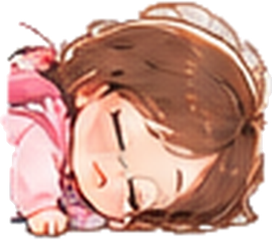
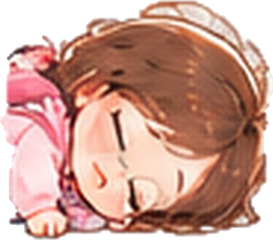
인트로 START → 대기 화면 없이 바로 게임, v2 줄타기 줄을 손까지 한 직선으로, 은유 v2 가는 머리카락·흰 테두리 정리

diff --git a/skyhook/game.js b/skyhook/game.js
@@ -714,7 +714,7 @@ function startStage(si) {
   if (!THEMES[skinTheme() || STAGES[si].theme].img) getBG(skinTheme() || STAGES[si].theme);
   setState('play');
   renderHearts();
-  $('hudProgFace').style.backgroundImage = `url(${(window.Costume && Costume.src) || `assets/${Save.data.char}_base.jpg?v=20261023v`})`;
+  $('hudProgFace').style.backgroundImage = `url(${(window.Costume && Costume.src) || `assets/${Save.data.char}_base.jpg?v=20261023x`})`;
   Audio.startBgm();
 }
 
@@ -1260,8 +1260,17 @@ function render() {
     ctx.strokeStyle = 'rgba(61,139,255,.55)'; ctx.lineWidth = 3; ctx.setLineDash([8, 8]);
     ctx.beginPath(); ctx.moveTo(p.x, p.y - 25); ctx.lineTo(target.x, target.y); ctx.stroke(); ctx.setLineDash([]);
   }
-  // rope
-  if (p.hook) {
+  // rope — 새 캐릭터(v2): 줄 끝 = 손, 몸은 줄과 한 직선으로 (줄이 절대 꺾이지 않게)
+  const v2Hang = p.hook && window.CharV2 && CharV2.is(Save.data.char) && CharV2.ready(Save.data.char) && !(p.inv > 0 && Math.floor(p.inv * 12) % 2 === 0) && p.hurtT <= 0;
+  let v2Hand = null;
+  if (v2Hang) {
+    const dx = p.x - p.hook.x, dy = p.y - p.hook.y, d = Math.hypot(dx, dy) || 1;
+    const L = Math.max(30, d - 46); v2Hand = { x: p.hook.x + dx / d * L, y: p.hook.y + dy / d * L, rot: -Math.atan2(dx, dy) };
+    ctx.strokeStyle = '#5A3B22'; ctx.lineWidth = 5; ctx.lineCap = 'round';
+    ctx.beginPath(); ctx.moveTo(p.hook.x, p.hook.y); ctx.lineTo(v2Hand.x, v2Hand.y); ctx.stroke();
+    ctx.strokeStyle = '#C9945A'; ctx.lineWidth = 2.5;
+    ctx.beginPath(); ctx.moveTo(p.hook.x, p.hook.y); ctx.lineTo(v2Hand.x, v2Hand.y); ctx.stroke();
+  } else if (p.hook) {
     // hands: local (3,-96) around the body pivot (feet-50), rotated like the sprite
     const r = -Math.atan2(p.x - p.hook.x, p.y - p.hook.y) * 0.8;
     const hx = p.x + 3 * Math.cos(r) + 46 * Math.sin(r), hy = p.y + CFG.bodyOff - 50 + 3 * Math.sin(r) - 46 * Math.cos(r);
@@ -1284,6 +1293,11 @@ function render() {
     else if (p.hook) pose = 'swing';
     else if (!p.onGround) pose = p.vy < 0 ? 'jump' : 'fall';
     if (G.endT > 0 && p.vx < 30) pose = 'idle';
+    if (v2Hand && pose === 'swing') {
+      ctx.save(); ctx.translate(v2Hand.x, v2Hand.y);
+      CharV2.draw(ctx, Save.data.char, `swing_${Math.floor(p.anim * 4) % 2}`, { h: 118, anchor: 'hand', rot: v2Hand.rot });
+      ctx.restore();
+    } else {
     ctx.save();
     ctx.translate(p.x, p.y + CFG.bodyOff);
     if (p.hook) {
@@ -1294,6 +1308,7 @@ function render() {
     if (G.endT > 0 && p.vx < 30) pose = 'cheer';
     if (!drawKidSprite(ctx, Save.data.char, pose, p.anim)) drawKid(ctx, Save.data.char, pose === 'cheer' ? 'idle' : pose, p.anim, { blink: p.blinkT < 0, happy: p.happyT > 0 });
     ctx.restore();
+    }
   }
   // FX
   for (const f of G.fx) {
@@ -1444,7 +1459,7 @@ function goHome() {
 function showReady(si) {
   G.si = si;
   $('readyTitle').textContent = `${STAGES[si].label} ${STAGES[si].name}`;
-  $('readyFace').src = (window.Costume && Costume.src) || `assets/${Save.data.char}_base.jpg?v=20261023v`;
+  $('readyFace').src = (window.Costume && Costume.src) || `assets/${Save.data.char}_base.jpg?v=20261023x`;
   $('readyFace').classList.toggle('cos', !!(window.Costume && Costume.src));
   setState('ready');
 }
@@ -1552,6 +1567,7 @@ if (HUB) {
   let si = parseInt(new URLSearchParams(location.search).get('stage'), 10);
   if (!(si >= 0 && si < STAGES.length) || !HUB.skyhookUnlocked(si)) si = HUB.skyhookNext();
   showReady(si);
+  if (new URLSearchParams(location.search).get('go') === '1') startStage(si); // 인트로 START: 준비 창 없이 바로
   $('btnHomeR').textContent = '지도로'; $('btnHomeP').textContent = '지도로';
 } else setState('home');
 requestAnimationFrame(frame);

diff --git a/common/charv2.js b/common/charv2.js
@@ -16,8 +16,8 @@
   function load(look) {
     if (!LOOKS[look] || atlas[look]) return;
     const a = atlas[look] = { img: new Image(), f: null, ok: false };
-    fetch(`${base}common/chars/${look}.json?v=20261023v`).then((r) => r.json()).then((j) => {
-      a.f = j.frames; a.img.onload = () => { a.ok = true; }; a.img.src = `${base}common/chars/${look}.webp?v=20261023v`;
+    fetch(`${base}common/chars/${look}.json?v=20261023x`).then((r) => r.json()).then((j) => {
+      a.f = j.frames; a.img.onload = () => { a.ok = true; }; a.img.src = `${base}common/chars/${look}.webp?v=20261023x`;
     }).catch(() => { /* 그림이 없으면 기본 그림으로 */ });
   }
   const get = (look, name) => { const a = atlas[look]; return a && a.ok && a.f[name] ? [a, a.f[name]] : null; };
@@ -31,8 +31,13 @@
     // 발이 (0,0)에 오게 그림. h: 몸 높이(px). anchor 'hang'이면 손(줄 잡는 곳)이 hangTop에 옴
     draw(g, look, name, o = {}) {
       const hit = get(look, name); if (!hit) return false;
-      const [a, [x, y, w, h, ox, oy, cw, ch, hand]] = hit;
+      const [a, [x, y, w, h, ox, oy, cw, ch, hand, handY, ropeAng]] = hit;
       const s = (o.h || 118) / (BODY_H * ch);
+      if (o.anchor === 'hand') { // 줄 잡는 점이 (0,0), 그림 속 줄이 위쪽(-y)을 향하게 돌려서 그림
+        g.save(); if (o.rot) g.rotate(o.rot); g.rotate(-(ropeAng || 0));
+        g.drawImage(a.img, x, y, w, h, (ox - hand) * s, (oy - handY) * s, w * s, h * s);
+        g.restore(); return true;
+      }
       // 매달리기: 손 x를 handX(기본 0)에 맞춰서 줄 끝과 손이 붙어 보이게
       const dx = o.anchor === 'hang' && hand != null ? (o.handX || 0) - (hand - cw / 2) * s : 0;
       // 매달리기: 그림 맨 위(줄 잡은 손)가 hangTop에 오게

diff --git a/index.html b/index.html
@@ -105,8 +105,8 @@
       <div class="looks">
         <button class="look" data-look="eunyu"><img src="skyhook/assets/eunyu_base.jpg" alt=""><span>은유 스타일</span></button>
         <button class="look" data-look="eungyeol"><img src="skyhook/assets/eungyeol_base.jpg" alt=""><span>은결 스타일</span></button>
-        <button class="look v2" data-look="eunyu2"><img src="skyhook/assets/eunyu2_base.jpg?v=20261023v" alt=""><span>은유 v2 <i class="new">NEW</i></span></button>
-        <button class="look v2" data-look="eungyeol2"><img src="skyhook/assets/eungyeol2_base.jpg?v=20261023v" alt=""><span>은결 v2 <i class="new">NEW</i></span></button>
+        <button class="look v2" data-look="eunyu2"><img src="skyhook/assets/eunyu2_base.jpg?v=20261023x" alt=""><span>은유 v2 <i class="new">NEW</i></span></button>
+        <button class="look v2" data-look="eungyeol2"><img src="skyhook/assets/eungyeol2_base.jpg?v=20261023x" alt=""><span>은결 v2 <i class="new">NEW</i></span></button>
       </div>
       <label class="name-row">이름 <input id="inName" maxlength="8" autocomplete="off" placeholder="이름 (8글자까지)"></label>
       <div class="p-note">아이템샵에서 게임 배경 스킨과 부스트를 살 수 있어요!</div>
@@ -172,7 +172,7 @@
   <div id="scrTitle" class="title-scr hidden">
     <div id="tsBg" class="ts-bg"></div>
     <img id="tsArt" class="ts-art" alt="">
-    <button id="tsBack" class="ts-back" aria-label="뒤로"><img src="hub/v3/back.png?v=20261023v" alt=""></button>
+    <button id="tsBack" class="ts-back" aria-label="뒤로"><img src="hub/v3/back.png?v=20261023x" alt=""></button>
     <button id="tsStart" class="ts-start"><span class="ts-tri"></span>START</button>
   </div>
 

diff --git a/hub/hub.js b/hub/hub.js
@@ -3,7 +3,7 @@
 const $ = (id) => document.getElementById(id);
 const root = $('root');
 // 얼굴: 옷을 입었으면 옷 그림(윗부분을 동그랗게 보여 줌)
-const face = (c) => Hub.costumeImg(c) || `skyhook/assets/${c.look}_base.jpg?v=20261023v`;
+const face = (c) => Hub.costumeImg(c) || `skyhook/assets/${c.look}_base.jpg?v=20261023x`;
 
 // ---------- sound (tiny UI blips) ----------
 let actx = null;
@@ -213,8 +213,10 @@ $('tsBack').addEventListener('click', (e) => { e.stopPropagation(); blip(500); h
 $('tsStart').addEventListener('click', (e) => {
   e.stopPropagation();
   const g = titleGame; if (!g) return;
-  blip(1046); $('scrTitle').classList.add('go');
-  setTimeout(() => { hideTitle(); g.open(); }, 260);
+  blip(1046);
+  // 지도·준비 창을 거치지 않고 바로 게임으로 (징검다리 게임은 다음에 할 판). 인트로 그림은 넘어갈 때까지 그대로 둠
+  const GM = Hub.GAMES[g.id];
+  location.href = GM.stages ? `${GM.path}?stage=${Hub.stageNext(g.id)}&go=1` : `${GM.path}?go=1`;
 });
 window.addEventListener('keydown', (e) => {
   if (!titleGame) return;
@@ -222,7 +224,7 @@ window.addEventListener('keydown', (e) => {
   else if (e.key === 'Escape') hideTitle();
 });
 // 다른 화면으로 가면 타이틀은 닫기 (게임에서 뒤로 돌아왔을 때 남아 있지 않게)
-window.addEventListener('pageshow', () => hideTitle());
+window.addEventListener('pageshow', (e) => { if (e.persisted) hideTitle(); });
 
 // 보유 아이템: 모든 게임의 부스트를 종류별로 합쳐서 많은 순서로 6개
 function renderItems(c) {

diff --git a/skyhook/index.html b/skyhook/index.html
@@ -114,7 +114,7 @@
   <div id="rotateHint" class="hidden">가로로 돌리면 더 크게 볼 수 있어요 ↻</div>
 </div>
 <script src="../common/profile.js?v=20261023k"></script>
-<script src="../common/charv2.js?v=20261023v"></script>
+<script src="../common/charv2.js?v=20261023x"></script>
 <script src="../common/costume.js?v=20261023k"></script>
 <script src="../common/skins.js?v=20261023k"></script>
 <script src="game.js?v=20261023k"></script>

diff --git a/helicopter/index.html b/helicopter/index.html
@@ -92,7 +92,7 @@
   <div id="rotateHint" class="hidden">가로로 돌리면 더 크게 볼 수 있어요 ↻</div>
 </div>
 <script src="../common/profile.js?v=20261023k"></script>
-<script src="../common/charv2.js?v=20261023v"></script>
+<script src="../common/charv2.js?v=20261023x"></script>
 <script src="../common/costume.js?v=20261023k"></script>
 <script src="../common/skins.js?v=20261023k"></script>
 <script src="game.js?v=20261023k"></script>

diff --git a/stairs/index.html b/stairs/index.html
@@ -96,7 +96,7 @@
   <div id="rotateHint" class="hidden">📱 세로로 세워서 하면 더 크게 보여요</div>
 </div>
 <script src="../common/profile.js?v=20261023k"></script>
-<script src="../common/charv2.js?v=20261023v"></script>
+<script src="../common/charv2.js?v=20261023x"></script>
 <script src="../common/costume.js?v=20261023k"></script>
 <script src="../common/skins.js?v=20261023k"></script>
 <script src="game.js?v=20261023k"></script>

diff --git a/helicopter/game.js b/helicopter/game.js
@@ -776,6 +776,7 @@ if (HUB) {
   // 메인 화면에서 바로 들어오면 홈 없이 '꾹 누르면 출발' 대기 상태로
   $('btnHomeR').textContent = '메인으로'; $('btnHomeP').textContent = '메인으로';
   startRun();
+  if (new URLSearchParams(location.search).get('go') === '1') G.state = 'play'; // 인트로 START로 들어오면 대기 화면 없이 바로 출발
 } else setState('home');
 requestAnimationFrame(frame);
 

diff --git a/downhill/index.html b/downhill/index.html
@@ -88,7 +88,7 @@
   </div>
 </div>
 <script src="../common/profile.js?v=20261023k"></script>
-<script src="../common/charv2.js?v=20261023v"></script>
+<script src="../common/charv2.js?v=20261023x"></script>
 <script src="../common/costume.js?v=20261023k"></script>
 <script src="../common/skins.js?v=20261023k"></script>
 <script src="game.js?v=20261023b"></script>

diff --git a/shisen/index.html b/shisen/index.html
@@ -90,7 +90,7 @@
 </div>
 <script src="../common/profile.js?v=20261023k"></script>
 <script src="../common/skins.js?v=20261023k"></script>
-<script src="../common/charv2.js?v=20261023v"></script>
+<script src="../common/charv2.js?v=20261023x"></script>
 <script src="../common/costume.js?v=20261023k"></script>
 <script src="game.js?v=20261023k"></script>
 </body>

diff --git a/shisen/game.js b/shisen/game.js
@@ -617,6 +617,7 @@ resize();
   let si = parseInt(new URLSearchParams(location.search).get('stage'), 10);
   if (!(si >= 0 && si < STAGES.length) || !unlocked(si)) si = nextStage();
   showReady(si);
+  if (new URLSearchParams(location.search).get('go') === '1') startStage(si); // 인트로 START: 준비 창 없이 바로
 }
 requestAnimationFrame(frame);
 

diff --git a/stairs/game.js b/stairs/game.js
@@ -756,6 +756,7 @@ resize();
 if (HUB) {
   $('btnHomeR').textContent = '메인으로'; $('btnHomeP').textContent = '메인으로';
   startRun();
+  if (new URLSearchParams(location.search).get('go') === '1') setState('play'); // 인트로 START로 들어오면 대기 화면 없이 바로 시작
 } else setState('home');
 requestAnimationFrame(frame);
 
